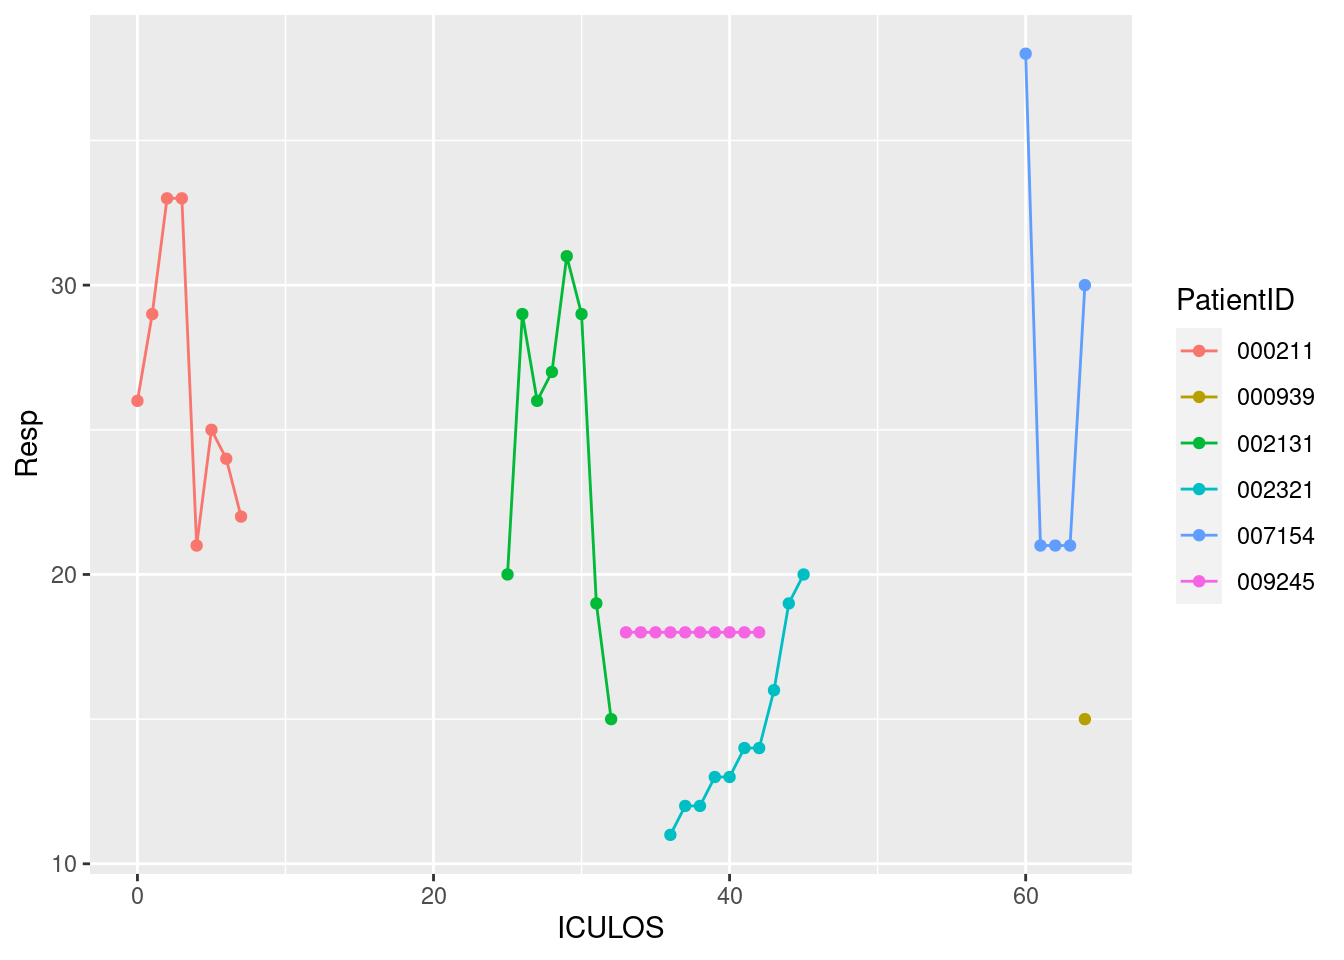
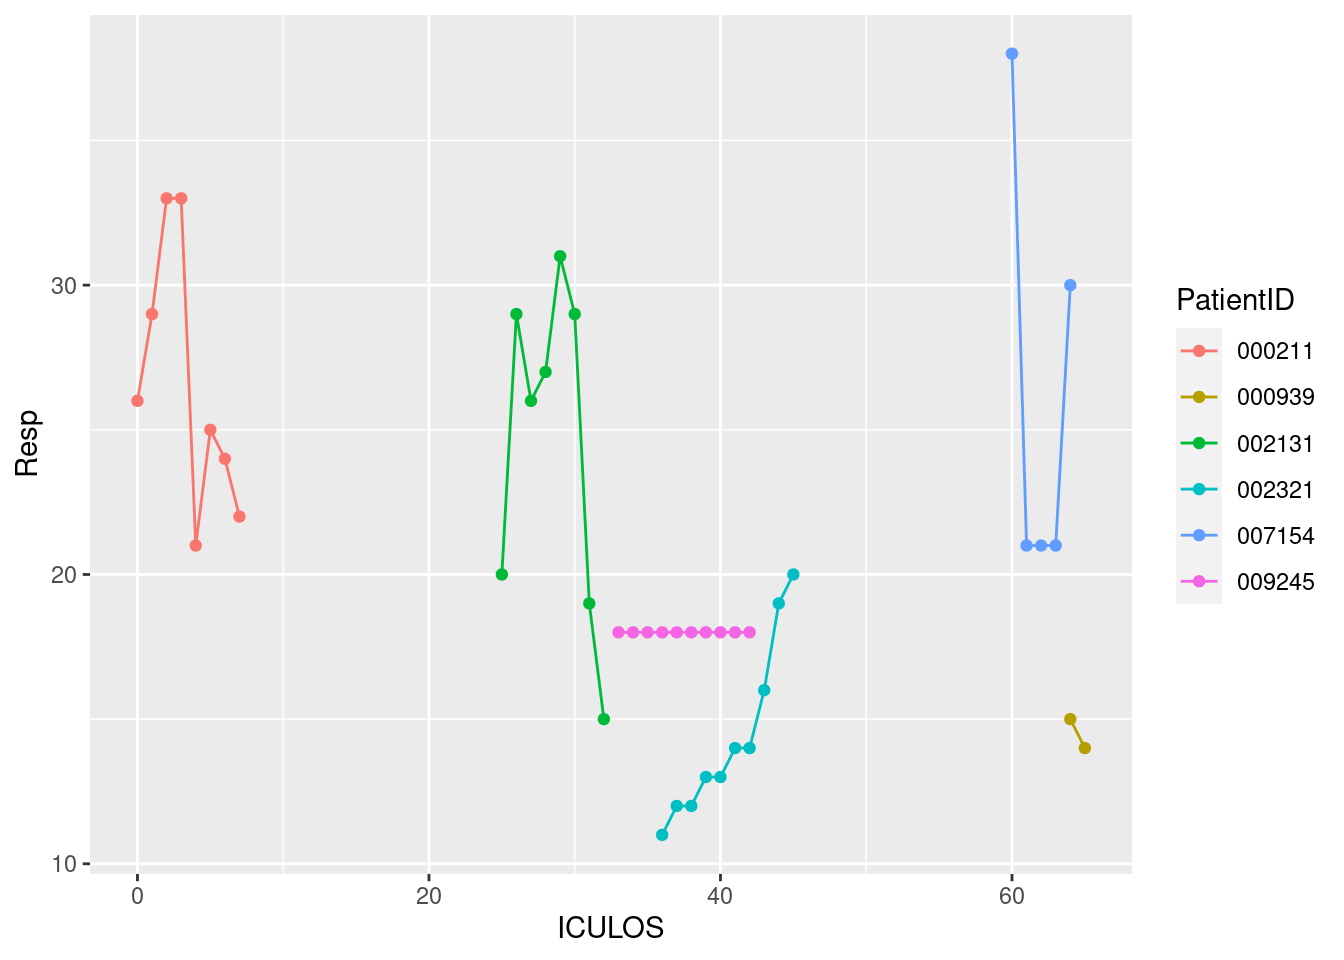
Updated report

diff --git a/a7qmd.html b/a7qmd.html
@@ -80,7 +80,7 @@ ul.task-list li input[type="checkbox"] {
 <h2 class="anchored" data-anchor-id="current-date-and-time">Current date and time</h2>
 <div class="cell">
 <div class="cell-output cell-output-stdout">
-<pre><code>[1] "2023-04-12 08:20:44 UTC"</code></pre>
+<pre><code>[1] "2023-04-12 09:16:11 UTC"</code></pre>
 </div>
 </div>
 </section>
@@ -106,9 +106,9 @@ ul.task-list li input[type="checkbox"] {
 </tr>
 <tr class="even">
 <td style="text-align: left;">000939</td>
-<td style="text-align: right;">78</td>
+<td style="text-align: right;">75</td>
 <td style="text-align: right;">NA</td>
-<td style="text-align: right;">15</td>
+<td style="text-align: right;">14</td>
 </tr>
 <tr class="odd">
 <td style="text-align: left;">002131</td>
@@ -213,7 +213,7 @@ ul.task-list li input[type="checkbox"] {
 <td style="text-align: left;">000939</td>
 <td style="text-align: right;">-3</td>
 <td style="text-align: right;">NA</td>
-<td style="text-align: right;">-2</td>
+<td style="text-align: right;">-1</td>
 </tr>
 <tr class="odd">
 <td style="text-align: left;">001080</td>
@@ -421,9 +421,9 @@ ul.task-list li input[type="checkbox"] {
 </tr>
 <tr class="odd">
 <td style="text-align: left;">008907</td>
-<td style="text-align: right;">2</td>
+<td style="text-align: right;">-14</td>
 <td style="text-align: right;">NA</td>
-<td style="text-align: right;">1</td>
+<td style="text-align: right;">-4</td>
 </tr>
 <tr class="even">
 <td style="text-align: left;">008916</td>
